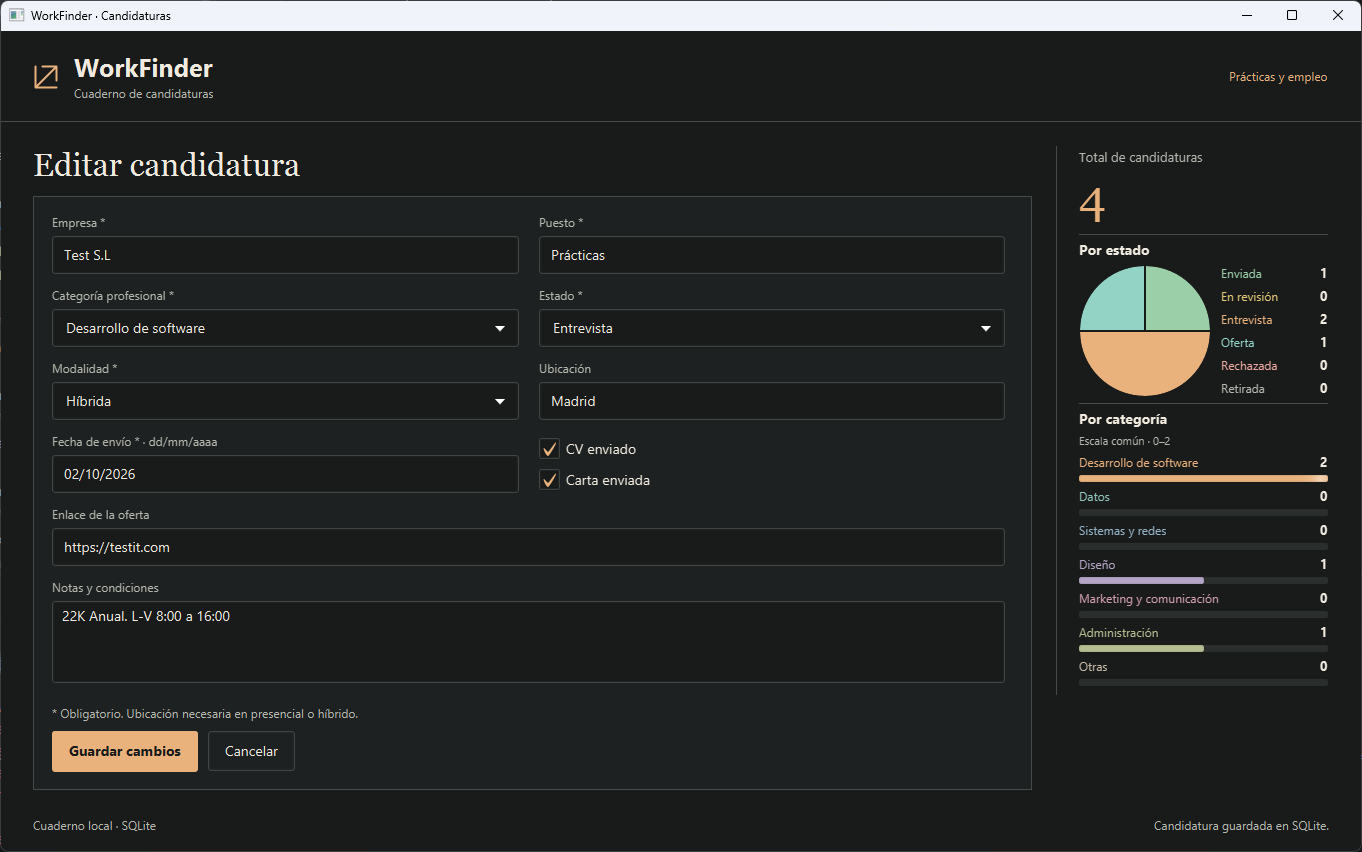
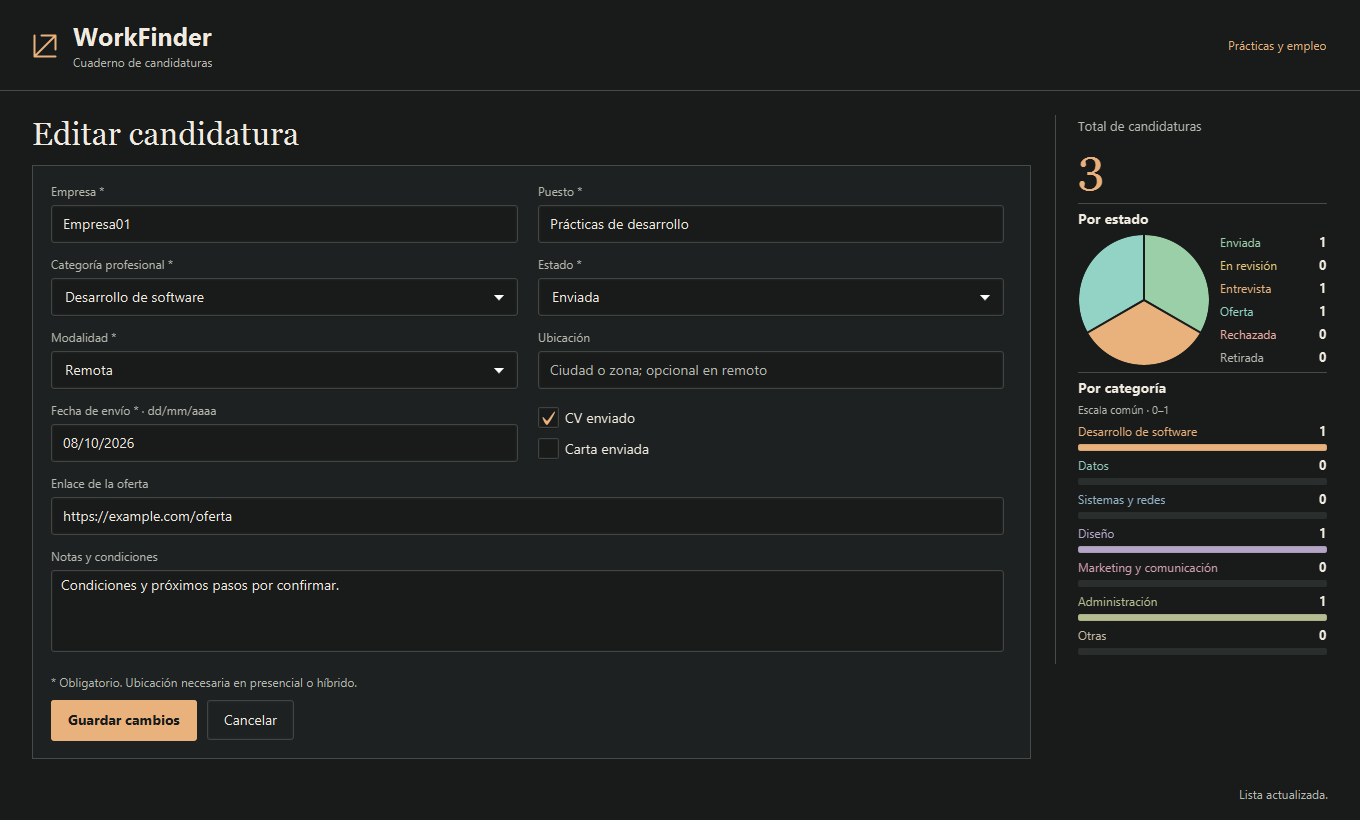
feat: prepare WorkFinder 1.0.0 with portable distribution

diff --git a/src/main/resources/com/davidcuadralara/workfinder/css/workfinder.css b/src/main/resources/com/davidcuadralara/workfinder/css/workfinder.css
@@ -150,7 +150,7 @@
 .footer { -fx-padding: 12 32 18 32; }
 .status-text { -fx-font-size: 12px; }
 
-/* Formulario de la fase 2, con errores junto a los campos. */
+/* Formulario con errores junto a los campos. */
 .candidatura-form { -fx-background-color: -wf-surface; -fx-border-color: -wf-border; -fx-padding: 18; }
 .form-scroll, .form-scroll > .viewport { -fx-background-color: transparent; }
 .form-scroll { -fx-padding: 0 8 0 0; -fx-background-insets: 0; }

diff --git a/src/main/java/com/davidcuadralara/workfinder/ui/MainView.java b/src/main/java/com/davidcuadralara/workfinder/ui/MainView.java
@@ -58,7 +58,7 @@ public final class MainView {
     private final StackPane contentHost = new StackPane();
     private final Label formTitle = label("", "section-title");
     private final Label message = label("", "operation-message");
-    private final Label status = label("Abriendo el cuaderno…", "status-text");
+    private final Label status = label("Abriendo WorkFinder…", "status-text");
     private final Label emptyTitle = label("Cargando candidaturas…", "empty-title");
     private final Label emptyExplanation = label("Preparando la base de datos local.", "muted-text");
     private final CandidaturaService service;
@@ -97,7 +97,7 @@ public final class MainView {
         status.setId("status-text");
         Region spacer = new Region();
         HBox.setHgrow(spacer, Priority.ALWAYS);
-        HBox footer = new HBox(16, label("Cuaderno local · SQLite", "pending-text"), spacer, status);
+        HBox footer = new HBox(16, spacer, status);
         footer.setAlignment(Pos.CENTER_LEFT);
         footer.getStyleClass().add("footer");
         root.setBottom(footer);
@@ -148,6 +148,30 @@ public final class MainView {
         showMessage("Espera a que termine la operación antes de cerrar la ventana.", false);
     }
 
+    /** Evita perder un formulario abierto o interrumpir una operación de guardado. */
+    public boolean requestClose() {
+        if (busy) {
+            closingWhileBusy();
+            return false;
+        }
+        if (form == null) return true;
+        ButtonType discard = new ButtonType("Cerrar sin guardar", ButtonBar.ButtonData.OK_DONE);
+        ButtonType back = new ButtonType("Volver al formulario", ButtonBar.ButtonData.CANCEL_CLOSE);
+        Alert dialog = new Alert(Alert.AlertType.CONFIRMATION,
+                "Hay un formulario abierto. Si cierras WorkFinder, se perderán los cambios sin guardar.", discard, back);
+        dialog.setTitle("Cerrar WorkFinder");
+        dialog.setHeaderText("¿Cerrar sin guardar?");
+        dialog.initOwner(root.getScene().getWindow());
+        dialog.getDialogPane().getStyleClass().add("workfinder-root");
+        dialog.getDialogPane().getStylesheets().addAll(root.getScene().getStylesheets());
+        dialog.getDialogPane().setPrefWidth(520);
+        dialog.getDialogPane().setGraphic(null);
+        dialog.getDialogPane().lookupButton(discard).getStyleClass().add("danger-button");
+        ((Button) dialog.getDialogPane().lookupButton(discard)).setDefaultButton(false);
+        ((Button) dialog.getDialogPane().lookupButton(back)).setDefaultButton(true);
+        return dialog.showAndWait().orElse(back) == discard;
+    }
+
     public void close() {
         closed = true;
         entrance.finish();
@@ -162,12 +186,12 @@ public final class MainView {
             allCandidates.clear();
             allCandidates.addAll(loaded);
             refreshCandidates(null);
-            status.setText("Candidaturas cargadas desde SQLite.");
+            status.setText("Lista actualizada.");
             updateActions();
         }, error -> {
             summaryPanel.failedLoad(ready);
             if (!ready) {
-                emptyTitle.setText("No se pudo cargar el cuaderno.");
+                emptyTitle.setText("No se pudieron cargar las candidaturas.");
                 emptyExplanation.setText("Consulta el mensaje y pulsa Recargar para intentarlo de nuevo.");
             }
             showFailure(error);
@@ -182,8 +206,8 @@ public final class MainView {
                 label("Cuaderno de candidaturas", "brand-subtitle"));
         Region spacer = new Region();
         HBox.setHgrow(spacer, Priority.ALWAYS);
-        Label phase = label("Prácticas y empleo", "header-caption");
-        HBox header = new HBox(16, brandMark, title, spacer, phase);
+        Label caption = label("Prácticas y empleo", "header-caption");
+        HBox header = new HBox(16, brandMark, title, spacer, caption);
         header.setAlignment(Pos.CENTER_LEFT);
         header.getStyleClass().add("header");
         return header;
@@ -304,7 +328,7 @@ public final class MainView {
         editButton.setId("editar-candidatura-button");
         deleteButton.setId("eliminar-candidatura-button");
         reloadButton.setId("recargar-button");
-        reloadButton.setTooltip(new Tooltip("Recargar las candidaturas desde SQLite · F5."));
+        reloadButton.setTooltip(new Tooltip("Actualizar la lista · F5."));
         addButton.setTooltip(new Tooltip("Añadir una candidatura · Ctrl+N."));
         editButton.setTooltip(new Tooltip("Consultar o editar la candidatura seleccionada."));
         deleteButton.setTooltip(new Tooltip("Eliminar la candidatura seleccionada con confirmación."));
@@ -396,7 +420,7 @@ public final class MainView {
                     .thenComparing(Comparator.comparingLong(Candidatura::getId).reversed()));
             closeForm();
             refreshCandidates(saved.getId());
-            status.setText(input.getId() == 0 ? "Candidatura guardada en SQLite." : "Cambios guardados en SQLite.");
+            status.setText(input.getId() == 0 ? "Candidatura guardada." : "Cambios guardados.");
             if (table.getItems().stream().noneMatch(c -> c.getId() == saved.getId())) {
                 showMessage("Guardada correctamente. Esta candidatura no coincide con la búsqueda o los filtros activos; pulsa la lupa y Limpiar para verla.", false);
             }
@@ -469,7 +493,7 @@ public final class MainView {
         execute(() -> { service.eliminar(selected.getId()); return selected.getId(); }, id -> {
             allCandidates.removeIf(c -> c.getId() == id);
             refreshCandidates(null);
-            status.setText("Candidatura eliminada de SQLite.");
+            status.setText("Candidatura eliminada.");
         }, this::showFailure, "Eliminando candidatura…");
     }
 
@@ -524,7 +548,7 @@ public final class MainView {
                 : "No se ha podido completar la operación. Tus datos en pantalla se conservan; vuelve a intentarlo.";
         showMessage(text, true);
         status.setText("La operación no se ha completado.");
-        System.getLogger(MainView.class.getName()).log(System.Logger.Level.ERROR, "Error al acceder al cuaderno", error);
+        System.getLogger(MainView.class.getName()).log(System.Logger.Level.ERROR, "Error al acceder a las candidaturas", error);
     }
 
     private void showMessage(String text, boolean error) {

diff --git a/src/main/java/com/davidcuadralara/workfinder/ui/WorkFinderApplication.java b/src/main/java/com/davidcuadralara/workfinder/ui/WorkFinderApplication.java
@@ -34,7 +34,7 @@ public final class WorkFinderApplication extends Application {
                 "No se ha encontrado la hoja de estilos de WorkFinder.");
         scene.getStylesheets().add(stylesheet.toExternalForm());
 
-        stage.setTitle("WorkFinder · Candidaturas");
+        stage.setTitle("WorkFinder");
         stage.setMinWidth(1040);
         stage.setMinHeight(680);
         stage.setResizable(true);
@@ -42,9 +42,8 @@ public final class WorkFinderApplication extends Application {
         stage.setOnShown(event -> view.playEntrance());
         stage.setOnHidden(event -> view.finishEntrance());
         stage.setOnCloseRequest(event -> {
-            if (view.isBusy()) {
+            if (!view.requestClose()) {
                 event.consume();
-                view.closingWhileBusy();
             }
         });
         stage.show();

diff --git a/src/main/java/com/davidcuadralara/workfinder/service/package-info.java b/src/main/java/com/davidcuadralara/workfinder/service/package-info.java
@@ -1,5 +1,5 @@
 /**
- * Validaciones, operaciones y cálculos del resumen.
- * Las dependencias se reciben por constructor. Los cálculos del resumen quedan para la fase 4.
+ * Validaciones, operaciones, búsqueda y cálculo de estadísticas.
+ * Las dependencias se reciben por constructor.
  */
 package com.davidcuadralara.workfinder.service;

diff --git a/README.md b/README.md
@@ -1,4 +1,4 @@
-# WorkFinder
+# WorkFinder 1.0.0
 
 Aplicación de escritorio para organizar candidaturas a prácticas y empleo, desarrollada con **Java 17, JavaFX, Maven y SQLite**. Permite mantener en un mismo lugar las ofertas a las que te has presentado, sus condiciones y el avance de cada proceso.
 
@@ -15,6 +15,8 @@ Aplicación de escritorio para organizar candidaturas a prácticas y empleo, des
 Cada fila representa **una candidatura**. Puedes registrar varias para una misma empresa o puesto; cada una conserva su identificador y sus datos.
 
 ## Capturas
+
+Las capturas muestran datos de ejemplo.
 
 <details>
 <summary>Formulario de edición</summary>
@@ -36,7 +38,7 @@ Cada fila representa **una candidatura**. Puedes registrar varias para una misma
 
 Pulsa **Añadir candidatura** para abrir el formulario dentro de la ventana. Registra empresa, puesto, categoría profesional, estado, modalidad, ubicación, enlace de la oferta y fecha de envío. También puedes indicar si enviaste el CV y la carta de presentación, y guardar notas o condiciones de la oferta.
 
-Selecciona una fila para habilitar **Editar** y **Eliminar**. La edición permite consultar y modificar todos sus datos; Cancelar conserva la versión guardada. La eliminación solicita confirmación antes de borrar.
+Selecciona una fila para habilitar **Editar** y **Eliminar**. La edición permite consultar y modificar todos sus datos; Cancelar conserva la versión guardada. La eliminación solicita confirmación antes de borrar. Al cerrar la aplicación con un formulario abierto, puedes volver a él o confirmar el cierre sin guardar.
 
 El estado también se puede cambiar desde el selector de la propia tabla: Enviada, En revisión, Entrevista, Oferta, Rechazada o Retirada. Cada selección se guarda en SQLite. Si falla, se restaura el valor anterior y se muestra un mensaje.
 
@@ -80,7 +82,19 @@ Una base vacía muestra total cero. Un fallo de recarga conserva las cifras de l
 
 Los atajos respetan el bloqueo durante las operaciones; Recargar no sustituye un formulario abierto. En macOS, los atajos Ctrl usan la tecla de acceso directo del sistema, Cmd.
 
-## Requisitos y ejecución
+## Paquete para presentar la aplicación
+
+Con JDK 17 instalado, genera la distribución desde la raíz del proyecto:
+
+```powershell
+.\mvnw.cmd verify
+```
+
+Extrae **`target/workfinder-1.0.0-portable.zip`** y abre **`WorkFinder.cmd`**. Conserva el JAR y las carpetas `lib` y `javafx` juntos. El ZIP incluye las dependencias: para utilizarlo no necesitas Maven, un IDE ni conexión a Internet; sí necesitas Java 17.
+
+El paquete generado en Windows está preparado para Windows. Para Linux o macOS, compila el proyecto en ese sistema con `sh ./mvnw verify` y ejecuta `sh workfinder.sh` desde su ZIP extraído. La distribución y el lanzador se han comprobado en Windows; los otros sistemas no se han probado manualmente.
+
+## Ejecutar desde el código fuente
 
 Necesitas un **JDK 17** y conexión a Internet para descargar las dependencias la primera vez. El proyecto incluye Maven Wrapper; no requiere instalar Maven, el SDK de JavaFX ni un servidor de base de datos.
 
@@ -131,4 +145,4 @@ Para compilar, ejecutar las pruebas y generar el JAR:
 
 En Linux o macOS, usa `sh ./mvnw verify`. Las pruebas cubren validación, filtros, estadísticas y persistencia con bases temporales, sin modificar la base personal.
 
-El JAR se genera en `target`; no incluye un instalador ni JavaFX autónomo. Para abrir la aplicación con sus dependencias, utiliza `javafx:run`.
+La verificación genera el JAR y el ZIP portable en `target`. Las comprobaciones gráficas de esta versión incluyen alta, edición, eliminación, estados, filtros, estadísticas, errores, tamaño mínimo y confirmación de cierre con bases aisladas. El paquete no incluye un entorno Java propio.
